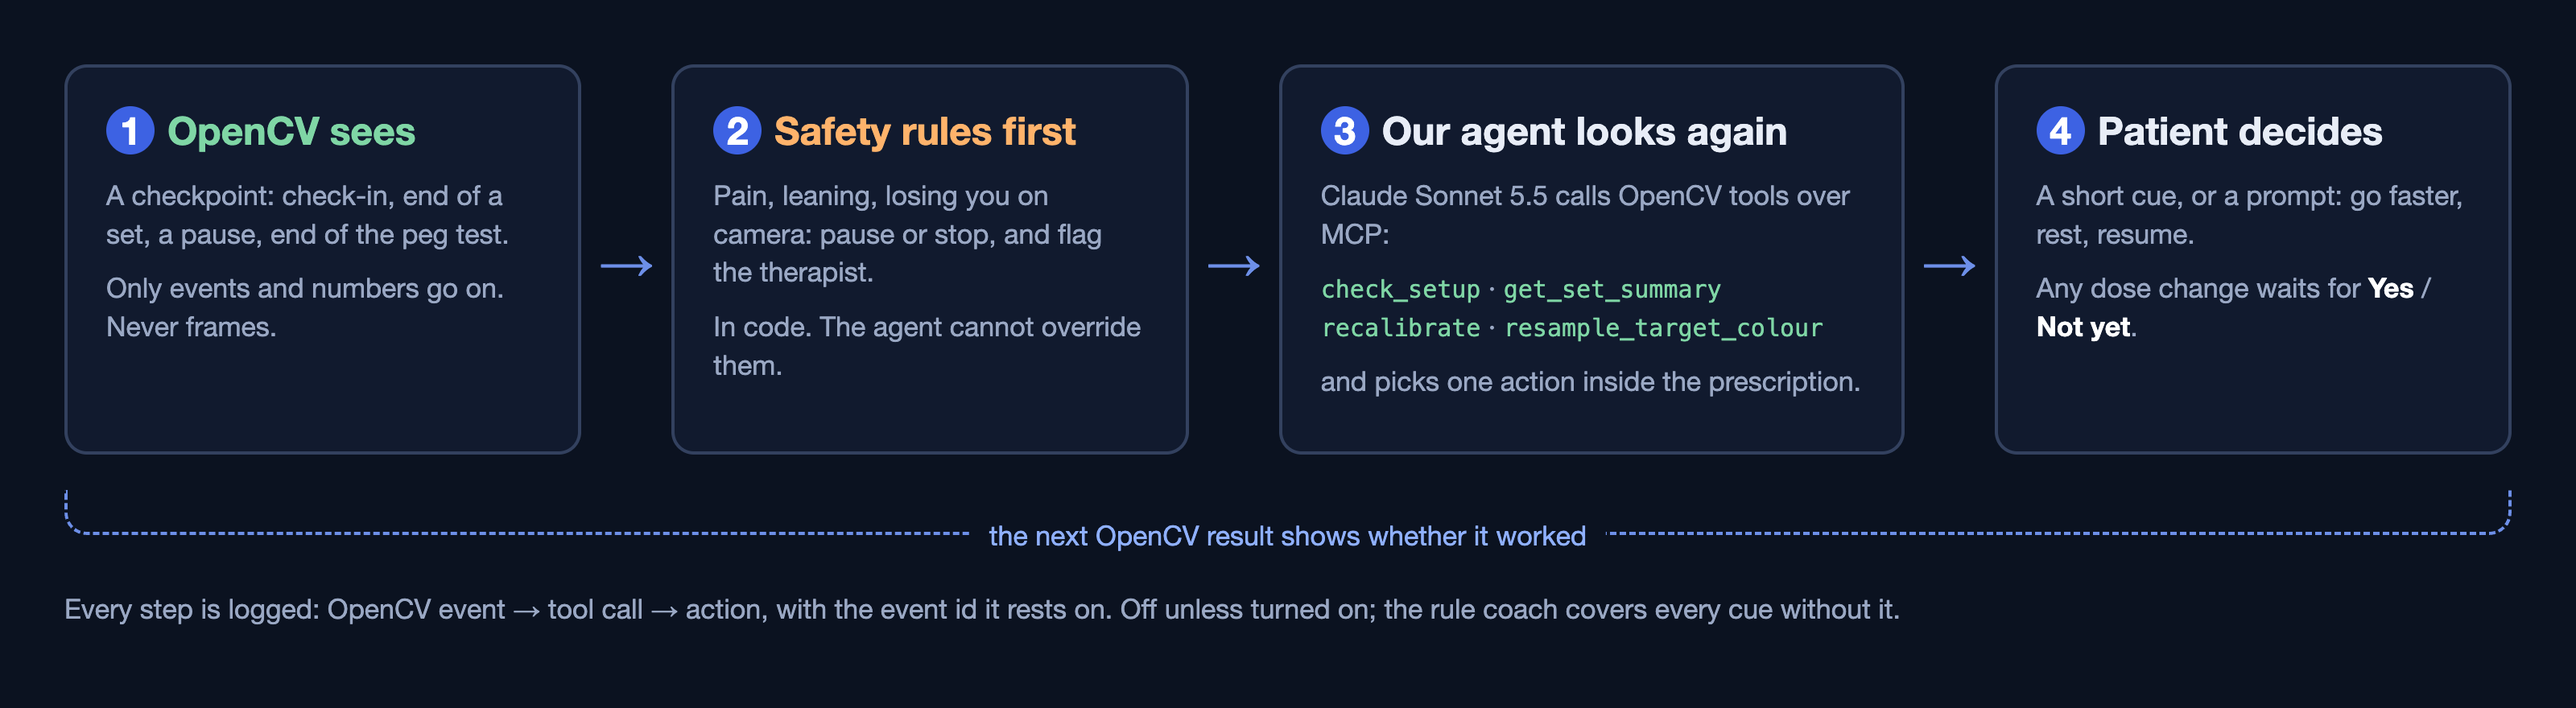
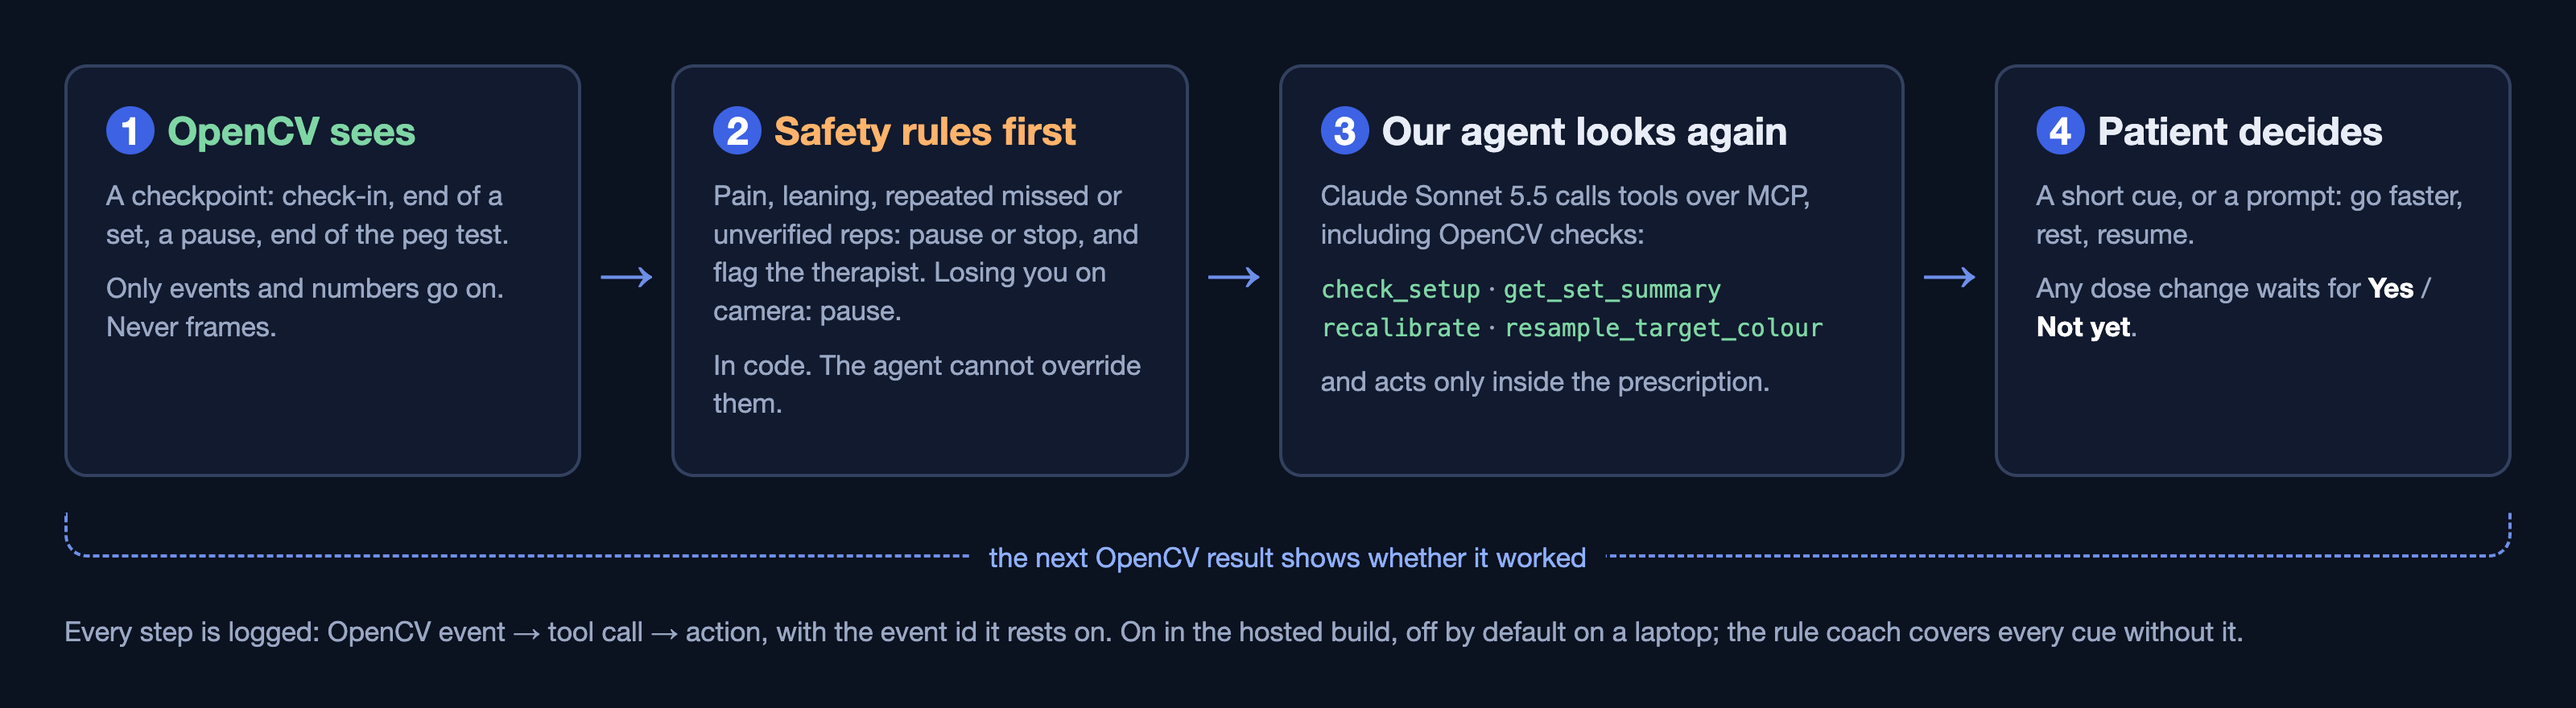
docs: claims re-check: tracking loss only pauses, COOL end-to-end numbers, Railway not AWS for latency, remove stale architecture.svg

diff --git a/docs/img/architecture_simple.html b/docs/img/architecture_simple.html
@@ -25,7 +25,7 @@
   .line.r::after, .line.l::before { content: ""; position: absolute; top: -6px; border: 7px solid transparent; }
   .line.r::after { right: -12px; border-left: 10px solid #6d8fe8; }
   .line.l::before { left: -12px; border-right: 10px solid #6d8fe8; }
-  .aws { flex: 1; border: 2px dashed #FF9900; border-radius: 18px; padding: 40px 12px 12px; position: relative; }
+  .aws { flex: 1; border: 2px solid #FF9900; border-radius: 18px; padding: 40px 12px 12px; position: relative; }
   .awslabel { position: absolute; top: 9px; left: 18px; color: #FFB347; font-size: 17px; font-weight: 700; }
   .foot { padding: 30px 40px 0; color: #9aa8c4; font-size: 17px; }
 </style></head><body>
@@ -33,7 +33,7 @@
   <div class="box" style="width:300px; flex:none;">
     <h2>Patient's laptop</h2>
     <div class="sub">A web page. Nothing to install.</div>
-    <div class="row"><b>Built-in camera</b><br><span>small frames, 10–15 a second</span></div>
+    <div class="row"><b>Built-in camera</b><br><span>small frames, up to 12 a second</span></div>
     <div class="row"><b>Captions and cues</b><br><span>audio if turned on</span></div>
     <div class="row"><b>Taps</b><br><span>pain, Yes / Not yet, Take a rest</span></div>
     <div class="row"><b>3-D mannequin</b><br><span>shows the move, never scores</span></div>
@@ -50,7 +50,7 @@
     <h2>One Python service</h2>
     <div class="sub">OpenCV 5 is COOL's build on Graviton4. The same service also runs on a laptop, and then no frame leaves it.</div>
     <div class="row"><b class="ocv">OpenCV 5</b><br><span>sheet markers → millimetres, holes and pegs, cup on the dots, hand and pose models (cv2.dnn)</span></div>
-    <div class="row"><b class="safe">Safety rules, first</b><br><span>pain, leaning, repeated missed or unverified reps, losing you on camera: pause or stop, and flag the therapist</span></div>
+    <div class="row"><b class="safe">Safety rules, first</b><br><span>pain, leaning, repeated missed or unverified reps: pause or stop, and flag the therapist · losing you on camera: pause</span></div>
     <div class="row"><b>Coach</b><br><span>a rule coach for every cue, or the agent at checkpoints, calling OpenCV tools over MCP</span></div>
     <div class="row"><b>Saved: events only</b> <span class="mono">sessions · events · flags · trace</span><br><span>Frames are processed in memory and dropped.</span></div>
   </div>
@@ -65,7 +65,7 @@
     <h2>Anthropic API</h2>
     <div class="sub">Claude Sonnet 5.5</div>
     <div class="row"><span>Gets numbers and short text, never frames.</span></div>
-    <div class="row"><span>Off unless turned on.</span></div>
+    <div class="row"><span>On in the hosted build; off by default on a laptop.</span></div>
   </div>
 </div>
 <div class="foot">Every decision is logged as OpenCV event → decision → action and can be opened in the app. Full diagrams: docs/ARCHITECTURE.md</div>

diff --git a/docs/img/agent_loop_simple.html b/docs/img/agent_loop_simple.html
@@ -29,15 +29,15 @@
   <div class="arrow">→</div>
   <div class="box">
     <h2><span class="num">2</span><span class="safe">Safety rules first</span></h2>
-    <p>Pain, leaning, losing you on camera: pause or stop, and flag the therapist.</p>
+    <p>Pain, leaning, repeated missed or unverified reps: pause or stop, and flag the therapist. Losing you on camera: pause.</p>
     <p>In code. The agent cannot override them.</p>
   </div>
   <div class="arrow">→</div>
   <div class="box" style="flex:1.25">
     <h2><span class="num">3</span>Our agent looks again</h2>
-    <p>Claude Sonnet 5.5 calls OpenCV tools over MCP:</p>
+    <p>Claude Sonnet 5.5 calls tools over MCP, including OpenCV checks:</p>
     <p><code>check_setup</code> · <code>get_set_summary</code><br><code>recalibrate</code> · <code>resample_target_colour</code></p>
-    <p>and picks one action inside the prescription.</p>
+    <p>and acts only inside the prescription.</p>
   </div>
   <div class="arrow">→</div>
   <div class="box">
@@ -47,5 +47,5 @@
   </div>
 </div>
 <div class="back"><span>the next OpenCV result shows whether it worked</span></div>
-<div class="foot">Every step is logged: OpenCV event → tool call → action, with the event id it rests on. Off unless turned on; the rule coach covers every cue without it.</div>
+<div class="foot">Every step is logged: OpenCV event → tool call → action, with the event id it rests on. On in the hosted build, off by default on a laptop; the rule coach covers every cue without it.</div>
 </body></html>

diff --git a/README.md b/README.md
@@ -19,7 +19,7 @@
 
 <p align="center"><img src="docs/img/screens/replay_cup.png" width="860" alt="Waiter – cup in Replay: OpenCV finds the four corner markers and the five dots on the printed sheet, the mannequin shows the move, the coach's caption and the verified and unverified counts"></p>
 
-- **Live app:** <https://d235zashbh751z.cloudfront.net> (AWS Graviton4 with COOL). No webcam? Settings → **Replay a recorded session**.
+- **Live app:** <https://d235zashbh751z.cloudfront.net> (AWS Graviton4 with COOL). No webcam? Settings → Demo and judging → **Replay a recorded session**.
 - **Five-minute guide:** [docs/JUDGE_QUICKSTART.md](docs/JUDGE_QUICKSTART.md)
 - **Technical report:** [docs/TECHNICAL_REPORT.md](docs/TECHNICAL_REPORT.md), also as [PDF](docs/Praxis_Technical_Report.pdf)
 - **Diagrams:** [docs/ARCHITECTURE.md](docs/ARCHITECTURE.md) · **Evaluation:** [evaluation/README.md](evaluation/README.md)
@@ -30,7 +30,7 @@ Praxis helps people do the shoulder, arm and hand exercises a therapist prescrib
 
 ## Why it matters
 
-- More than 70 % of people who have a stroke have arm problems, and in one group of 102 patients only 11.6 % got full arm function back at six months.
+- More than 70 % of people who have a stroke have arm problems, and in one study of 102 stroke patients with a weak arm, only 11.6 % got full arm function back at six months.
 - Recovery needs many repetitions. In 312 observed therapy sessions, arm practice happened in half of them, about 32 reps each time. The rest is meant to happen at home, where up to 70 % of people don't keep up their exercises.
 - At home nobody checks how well a rep was done or how much to do on a bad day, and the therapist only hears about it at the next visit.
 
@@ -71,7 +71,7 @@ Sources: [report §1](docs/TECHNICAL_REPORT.md).
   </tr>
   <tr>
     <td valign="top"><b>Arm angle</b><br><sub>The OpenCV Zoo pose model gives the shoulder angle (smoothed; the target is capped at 90°) and flags leaning or a hiked shoulder when the hips are in view. The mannequin only shows the move; it never scores.<br><code>cv2.dnn</code><br><a href="services/session/praxis_session/perception/pose.py">pose.py</a> · <a href="services/session/praxis_session/perception/arm_fsm.py">arm_fsm.py</a></sub></td>
-    <td valign="top"><b>Safety rules first, then the coach</b><br><sub>Pain, repeated leaning, repeated missed or unverified reps, or losing you on camera pause or stop the session and flag the therapist, before any coach sees the event. Every cue traces back to an OpenCV event.<br><a href="services/session/praxis_session/stop_rules.py">stop_rules.py</a> · <a href="services/session/praxis_session/coach/rules.py">coach/rules.py</a></sub></td>
+    <td valign="top"><b>Safety rules first, then the coach</b><br><sub>Pain, repeated leaning and repeated missed or unverified reps pause or stop the session and flag the therapist; losing you on camera pauses until you're back. All of this runs before any coach sees the event. Every cue traces back to an OpenCV event.<br><a href="services/session/praxis_session/stop_rules.py">stop_rules.py</a> · <a href="services/session/praxis_session/coach/rules.py">coach/rules.py</a></sub></td>
     <td valign="top"><b>Our agent (optional)</b><br><sub>Claude Sonnet 5.5 runs at checkpoints and calls OpenCV tools over MCP. It gets numbers and short text, never frames. Every dose change is a prompt the patient accepts.<br><a href="services/session/praxis_session/agent/tools.py">agent/tools.py</a> · <a href="docs/AGENT.md">AGENT.md</a></sub></td>
   </tr>
 </table>
@@ -102,11 +102,11 @@ The detailed diagrams (OpenCV steps per exercise, one full agent run) are in [do
 |---|---|---|
 | Arm angle on **real video** (REHAB24-6, a public lab dataset: 8 healthy adults, 88 reps) vs motion capture | angle error (MAE) 3.8°, rep F1 0.96 | [rehab24_v0.md](evaluation/results/rehab24_v0.md) |
 | Same videos cropped to **laptop framing** (hips at or below the bottom edge) | rep F1 0.91–0.93 (34–35 of 35 reps found), angle error 5.0–7.5°. Before our 25 Oct fix: F1 0.28–0.76 | [rehab24_laptop_framing_v0.md](evaluation/results/rehab24_laptop_framing_v0.md) |
-| Our agent (Sonnet 5.5) on **real video** (REHAB24-6 through the product, 40 sessions, 12 Oct run) | Named a fault that motion capture confirmed, and gave a correction, in 41 of 44 set reviews (patient taps simulated); 0 guardrail breaks; first action 3.7 s median; about $0.05 a session | [agent_video_v0.md](evaluation/results/agent_video_v0.md) |
+| Our agent (Sonnet 5.5) on **real video** (REHAB24-6 through the product, 40 sessions, 12 Oct run) | Named a fault that motion capture confirmed, and gave a correction, in 41 of 44 set reviews (patient taps simulated). The rule coach alone, cueing during the rep, also addressed 22 of 22, but fewer of its claims held up (36 of 79, against 67 of 83 for our agent). 0 guardrail violations; first action 3.7 s median; about $0.05 a session | [agent_video_v0.md](evaluation/results/agent_video_v0.md) |
 | Our agent on 15 synthetic test scenarios | 15 of 15 pass. One newer, harder case (mixed signals) **fails in all 3 runs**; it is still open | [AGENT.md](docs/AGENT.md) |
-| Nine-Hole Peg Test and Waiter – cup, **live on real webcams** (our team, laptop camera, 13–24 Oct) | Found real bugs the renders missed, fixed and re-tested on renders, not yet re-tested live: plain wooden pegs and an ordinary cup not seen, a hand over the board counted as pegs (1 real peg read as 9), cup counts lagging 5–23 s. Speed in 4 real cup sessions: camera to result in 132–147 ms (median), network included. No stopwatch-checked accuracy yet | [report §8.1.1](docs/TECHNICAL_REPORT.md) · [live_sessions_2026-10-24.md](evaluation/results/live_sessions_2026-10-24.md) |
+| Nine-Hole Peg Test and Waiter – cup, **live on real webcams** (our team, laptop camera, 13–24 Oct) | Found real bugs the renders missed, fixed and re-tested on renders, not yet re-tested live: plain wooden pegs and an ordinary cup not seen, a hand over the board counted as pegs (1 real peg read as 9), cup counts lagging 5–23 s. Speed in 4 real cup sessions on our Railway test build (not the AWS server): camera to result in 132–147 ms (median), network included. No stopwatch-checked accuracy yet | [report §8.1.1](docs/TECHNICAL_REPORT.md) · [live_sessions_2026-10-24.md](evaluation/results/live_sessions_2026-10-24.md) |
 | Nine-Hole Peg Test and Waiter – cup, **measured** on 3-D Blender renders | Computer-made 3-D videos, not real people. Peg test: F1 0.97, total time off by 1.2 s on average; most seats (90 of 96) are counted but marked unverified (grasp not seen). Cup: F1 0.79, reach time off by 0.7 s | [synthetic3d_v0.md](evaluation/results/synthetic3d_v0.md) |
-| COOL vs stock OpenCV, same c8g.large (measured 11 Oct) | 1.2–1.6× faster on colour threshold, contours, Hough and template matching; 10–16 % slower on JPEG decode, ArUco, warp and the hand model; about even on a full frame | [cool_vs_stock_c8g.md](benchmark/results/cool_vs_stock_c8g.md) |
+| COOL vs stock OpenCV, same c8g.large (measured 11 Oct) | 1.2–1.6× faster on colour threshold, contours, Hough and template matching; 10–16 % slower on JPEG decode, ArUco, warp and the hand model; end to end, a peg-test frame is 3 % faster and a cup frame 6 % slower | [cool_vs_stock_c8g.md](benchmark/results/cool_vs_stock_c8g.md) |
 
 ## Where it fails
 
@@ -129,7 +129,7 @@ uv run uvicorn praxis_session.main:app --port 8000                       # → h
 cd web && pnpm install && pnpm dev                                        # → http://localhost:5173
 ```
 
-Print [the peg sheet](docs/sheets/nhpt_board.pdf) or [the cup sheet](docs/sheets/cup_targets.pdf) at 100 %. No webcam: Settings → Replay a recorded session. Tests: `uv run pytest -q` (service) and `pnpm test` (web). Agent, evaluation, Docker and deploy commands: [docs/DEVELOPING.md](docs/DEVELOPING.md).
+Print [the peg sheet](docs/sheets/nhpt_board.pdf) or [the cup sheet](docs/sheets/cup_targets.pdf) at 100 %. No webcam: Settings → Demo and judging → Replay a recorded session. Tests: `uv run pytest -q` (service) and `pnpm test` (web). Agent, evaluation, Docker and deploy commands: [docs/DEVELOPING.md](docs/DEVELOPING.md).
 
 ## Repo map
 

diff --git a/docs/ARCHITECTURE.md b/docs/ARCHITECTURE.md
@@ -74,7 +74,7 @@ flowchart LR
     subgraph AWS["AWS us-east-2 · rebuilt 21 Oct 2026"]
         CF["CloudFront HTTPS<br/>d235zashbh751z.cloudfront.net<br/>WSS upgrade, caching off"]
         EC2["EC2 c8g.large · Graviton4<br/>COOL AMI · OpenCV 5.1.0-dev (/opt/cool)<br/>same service under systemd"]
-        GRD["Guardrails: SG from CloudFront prefix list only,<br/>$50 budget with email alerts<br/>(no budget action, no SCPs)"]
+        GRD["Guardrails: SG: CloudFront prefix list + one admin IP,<br/>$50 budget with email alerts<br/>(no budget action, no SCPs)"]
         S3["S3: event logs, traces,<br/>reports (planned)"]
         CW["CloudWatch: /praxis/session logs, EMF metrics,<br/>dashboard, alarms (built, not yet verified on AWS)"]
         CDK["AWS CDK (planned;<br/>infra/ec2/deploy.sh today)"]
@@ -221,7 +221,7 @@ sequenceDiagram
     T-->>CS: intent queued: prompt kind resume
     Note over CS: socket loop drains intents and re-checks stop:<br/>a pain stop mid-run drops them (agent_drop)
     CS->>B: prompt "Setup looks good — resume?" (Yes, resume · Not yet)
-    B->>P: caption on screen, spoken by the browser (SpeechSynthesis)
+    B->>P: caption on screen (spoken if Audio is on)
     P->>B: taps "Yes, resume"   (human approval)
     B->>CS: answer resume-1 choice Yes
     CS->>B: resume · "Thanks. Carrying on from where we stopped."

diff --git a/infra/ec2/README.md b/infra/ec2/README.md
@@ -18,9 +18,8 @@ address survives stop/start), a CloudFront-only security group, HTTPS at
 - **Start / stop** (CloudShell): `aws ec2 start-instances --instance-ids <instance-id>` /
   `aws ec2 stop-instances --instance-ids <instance-id>`. The Elastic IP keeps the address,
   so CloudFront needs no change. Redeploy from the laptop: `infra/ec2/deploy.sh <elastic-ip> --agent`.
-- **Spend:** budget `praxis-monthly-50` ($50/month, emails at 80 %, 100 % and forecast 100 %);
-  credits about $117 (until Oct 2027). COOL is billed through Marketplace ($0.01/h for c8g.large,
-  7-day trial from 21 Oct); promotional credits may not cover Marketplace fees.
+- **Spend:** a $50/month AWS budget with email alerts. COOL is billed through Marketplace
+  ($0.01/h for c8g.large).
 
 ## What it builds
 - One **c8g.large** (Graviton4, 2 vCPU, 4 GiB) in **us-east-2** (the account's project region), launched from the AWS Marketplace

diff --git a/evaluation/README.md b/evaluation/README.md
@@ -47,7 +47,7 @@ The NHPT and the cup have no labelled real-camera number yet. Our own live sessi
   the hole (NHPT) or dot (cup), whether it should be verified or unverified and why, and any scripted
   error. For Arm out to the side it also has the goniometer-app angle (`peak_deg_goniometer`) and
   trunk lean / shoulder hike.
-- `data/team_test_2026-10-21/`: the team shake-down on the hosted 13 Oct build (15 live
+- `data/team_test_2026-10-21/`: the team shake-down on our Railway test build (13 Oct build, not AWS) (15 live
   sessions, 12–15 Oct: 8 by three of us, 7 automated; snapshot taken 21 Oct, GET requests only). It has the stored session summaries
   and events, 6 traces, the server's `/api/review` summary and `meta.json` (where the data came from).
   Testers are pseudonymised (T1–T3; `test-claude` = automated, Claude-driven, synthetic clip). No frames
